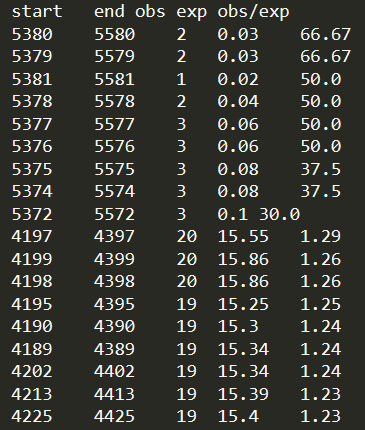
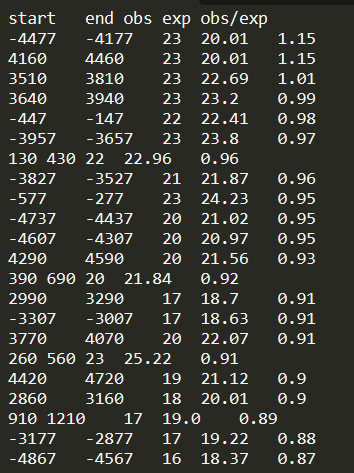
add reverse complement sequence search

Changed region(s): [[0.0, 0.0, 0.9633, 0.9977]]

diff --git a/cpg_island_identificator_gui.py b/cpg_island_identificator_gui.py
@@ -1,62 +1,67 @@
 # python3
 from gooey import *
 from Bio import SeqIO
-from Bio.Seq import Seq, MutableSeq
+from Bio.Seq import Seq, MutableSeq, reverse_complement
 from Bio.Data import IUPACData
 import pandas as pd
 # input parameters
-@Gooey(required_cols=6, program_name='CpG island identificator', header_bg_color= '#DCDCDC', terminal_font_color= '#DCDCDC', terminal_panel_color= '#DCDCDC')
+@Gooey(required_cols=4, program_name='CpG island identificator', header_bg_color= '#DCDCDC', terminal_font_color= '#DCDCDC', terminal_panel_color= '#DCDCDC')
 def main():
-  ap = GooeyParser(description="identify CpG islands on a sequence based on the Gardiner-Garden and Frommer (1987) method")
-  ap.add_argument("-in", "--input", required=True, widget='FileChooser', help="input fasta file")
-  ap.add_argument("-gc", "--gc", required=True, help="min GC content(support for S and W nucleotides)")
-  ap.add_argument("-ratio", "--ratio", required=True, help="min ratio of the Obs/Exp value, type = float")
-  ap.add_argument("-step", "--step", required=True, help="step size for CpG identification, type = int")
-  ap.add_argument("-win", "--window", required=True, help="window size for CpG identification, type = int")
-  ap.add_argument("-out", "--output", required=True, widget='FileSaver', help="output txt file")
-  args = vars(ap.parse_args())
-# calculate obs value
-  def obs(seq):
-    return seq.count('CG')
-# calculate Exp value
-  def exp(seq):
-    return round(seq.count('C') * seq.count('G') / int(args['window']), 2)
-# calculate gc content
-  def gc_content(seq):
-    gc = sum(seq.count(x) for x in ["G", "C", "S"])
-    return round(gc * 100 / sum(seq.count(x) for x in ["A", "T", "G", "C", "S", "W"]), 2)
-# main
-  gcobs = []
-  gcexp = []
-  headers = [] # setup empty lists
-  for record in SeqIO.parse(args['input'], "fasta"):
-    for i in range(0, len(record.seq) - int(args['window']) + 1, int(args['step'])):
-        if gc_content(record.seq[i:i + int(args['window'])]) > float(args['gc']):
-           gcobs.append(obs(record.seq[i:i + int(args['window'])]))
-           gcexp.append(exp(record.seq[i:i + int(args['window'])]))
-           headers.append(i)
-# create data frame
-  df = pd.DataFrame()
-  df['start'] = headers
-  df['obs'] = gcobs
-  df['exp'] = gcexp
-  df['obs/exp'] = round(df['obs']/df['exp'], 2)
-  df = df[df['exp'] > 0]
-  df = df[df['obs/exp'] > float(args['ratio'])]
-  df = df.sort_values(by=['obs/exp'], ascending=False)
-  start = df.iloc[:,0]
-  end = start.astype(int) + int(args['window'])
-  df1 = pd.DataFrame()
-  df1['start'] = start
-  df1['end'] = end
-  df1['obs'] = df[["obs"]]
-  df1['exp'] = df[["exp"]]
-  df1['obs/exp'] = df[["obs/exp"]]
-# export
-  with open(args['output'], 'a') as f:
-    f.write(
-        df1.to_csv(header = True, index = False, sep = '\t', doublequote= False, line_terminator= '\n')
-    )
+    ap = GooeyParser(description="identify CpG islands on a sequence based on the Gardiner-Garden and Frommer (1987) method")
+    ap.add_argument("-in", "--input", required=True, widget='FileChooser', help="input fasta file")
+    ap.add_argument("-gc", "--gc",  required=False, default=50, help="min GC content(support for S and W nucleotides).Default= 50")
+    ap.add_argument("-ratio", "--ratio", required=False, default=0.6, help="min ratio of the Obs/Exp value, type = float. Default= 0.6")
+    ap.add_argument("-step", "--step", required=True, help="step size for CpG identification, type = integer")
+    ap.add_argument("-win", "--window", required=True, help="window size for CpG identification, type = integer")
+    ap.add_argument("-out", "--output", required=True, widget='FileSaver', help="output txt file")
+    args = vars(ap.parse_args())
+    # calculate obs value
+    def obs(seq):
+        return seq.count('CG')
+    # calculate Exp value
+    def exp(seq):
+        return round(seq.count('C') * seq.count('G') / int(args['window']), 2)
+    # calculate gc content
+    def gc_content(seq):
+        gc = sum(seq.count(x) for x in ["G", "C", "S"])
+        return round(gc * 100 / sum(seq.count(x) for x in ["A", "T", "G", "C", "S", "W"]), 2)
+    # main
+    gcobs = []
+    gcexp = []
+    headers = [] # setup empty lists
+    for record in SeqIO.parse(args['input'], "fasta"):
+        rev = reverse_complement(record.seq)
+        for i in range(0, len(record.seq) - int(args['window']) + 1, int(args['step'])):
+            if gc_content(record.seq[i:i + int(args['window'])]) > float(args['gc']):
+                gcobs.append(obs(record.seq[i:i + int(args['window'])]))
+                gcexp.append(exp(record.seq[i:i + int(args['window'])]))
+                headers.append(i)
+            if gc_content(rev[i:i + int(args['window'])]) > float(args['gc']):
+                gcobs.append(obs(rev[i:i + int(args['window'])]))
+                gcexp.append(exp(rev[i:i + int(args['window'])]))
+                headers.append(i -len(record.seq))
+    # create data frame
+    df = pd.DataFrame()
+    df['start'] = headers
+    df['obs'] = gcobs
+    df['exp'] = gcexp
+    df['obs/exp'] = round(df['obs']/df['exp'], 2)
+    df = df[df['exp'] > 0]
+    df = df[df['obs/exp'] > float(args['ratio'])]
+    df = df.sort_values(by=['obs/exp'], ascending=False)
+    start = df.iloc[:,0]
+    end = start.astype(int) + int(args['window'])
+    df1 = pd.DataFrame()
+    df1['start'] = start
+    df1['end'] = end
+    df1['obs'] = df[["obs"]]
+    df1['exp'] = df[["exp"]]
+    df1['obs/exp'] = df[["obs/exp"]]
+    # export
+    with open(args['output'], 'a') as f:
+        f.write(
+            df1.to_csv(header = True, index = False, sep = '\t', doublequote= False, line_terminator= '\n')
+        )
 
 if __name__ == '__main__':
     main()

diff --git a/cpg_island_identificator.py b/cpg_island_identificator.py
@@ -1,24 +1,24 @@
 # python3
 import argparse
 from Bio import SeqIO
-from Bio.Seq import Seq, MutableSeq
+from Bio.Seq import Seq, MutableSeq, reverse_complement
 from Bio.Data import IUPACData
 import pandas as pd
 # input parameters
 ap = argparse.ArgumentParser()
 ap.add_argument("-in", "--input_file", required=True, help="input fasta file")
-ap.add_argument("-gc", "--gc_content", required=True, help="min GC content(support for S and W nucleotides)")
-ap.add_argument("-ratio", "--gc_ratio", required=True, help="min ratio of the Obs/Exp value, type = float")
-ap.add_argument("-step", "--step_size", required=True, help="step size for CpG identification, type = int")
-ap.add_argument("-win", "--window_size", required=True, help="window size for CpG identification, type = int")
+ap.add_argument("-gc", "--gc_content",  required=False, default=50, help="min GC content(support for S and W nucleotides).Default= 50")
+ap.add_argument("-ratio", "--gc_ratio", required=False, default=0.6, help="min ratio of the Obs/Exp value, type = float. Default= 0.6")
+ap.add_argument("-step", "--step_size", required=True, help="step size for CpG identification, type = integer")
+ap.add_argument("-win", "--window_size", required=True, help="window size for CpG identification, type = integer")
 ap.add_argument("-out", "--output_file", required=True, help="output txt file")
 args = vars(ap.parse_args())
 # calculate obs value
 def obs(seq):
-  return seq.count('CG')
+    return seq.count('CG')
 # calculate Exp value
 def exp(seq):
-  return round(seq.count('C') * seq.count('G') / int(args['window_size']), 2)
+    return round(seq.count('C') * seq.count('G') / int(args['window_size']), 2)
 # calculate gc content
 def gc_content(seq):
     gc = sum(seq.count(x) for x in ["G", "C", "S"])
@@ -28,12 +28,17 @@ gcobs = []
 gcexp = []
 headers = [] # setup empty lists
 for record in SeqIO.parse(args['input_file'], "fasta"):
+    rev = reverse_complement(record.seq)
     for i in range(0, len(record.seq) - int(args['window_size']) + 1, int(args['step_size'])):
         if gc_content(record.seq[i:i + int(args['window_size'])]) > float(args['gc_content']):
-           gcobs.append(obs(record.seq[i:i + int(args['window_size'])]))
-           gcexp.append(exp(record.seq[i:i + int(args['window_size'])]))
-           headers.append(i)
-# create data frame
+            gcobs.append(obs(record.seq[i:i + int(args['window_size'])]))
+            gcexp.append(exp(record.seq[i:i + int(args['window_size'])]))
+            headers.append(i)
+        if gc_content(rev[i:i + int(args['window_size'])]) > float(args['gc_content']):
+            gcobs.append(obs(rev[i:i + int(args['window_size'])]))
+            gcexp.append(exp(rev[i:i + int(args['window_size'])]))
+            headers.append(i -len(record.seq))
+  # create data frame
 df = pd.DataFrame()
 df['start'] = headers
 df['obs'] = gcobs

diff --git a/README.md b/README.md
@@ -1,4 +1,2 @@
-# CpG_island_identificator [![DOI](https://zenodo.org/badge/DOI/10.5281/zenodo.4079449.svg)](https://doi.org/10.5281/zenodo.4079449)
+# CpG_island_identificator 
 CpG island identification pipeline inspired by the  Gardiner-Garden and Frommer (1987) method (see the wiki page for documentation and depedences)
-## GUI stadalone program(.exe)
-CpG island identificator GUI: [![DOI](https://zenodo.org/badge/DOI/10.5281/zenodo.4484305.svg)](https://doi.org/10.5281/zenodo.4484305)
